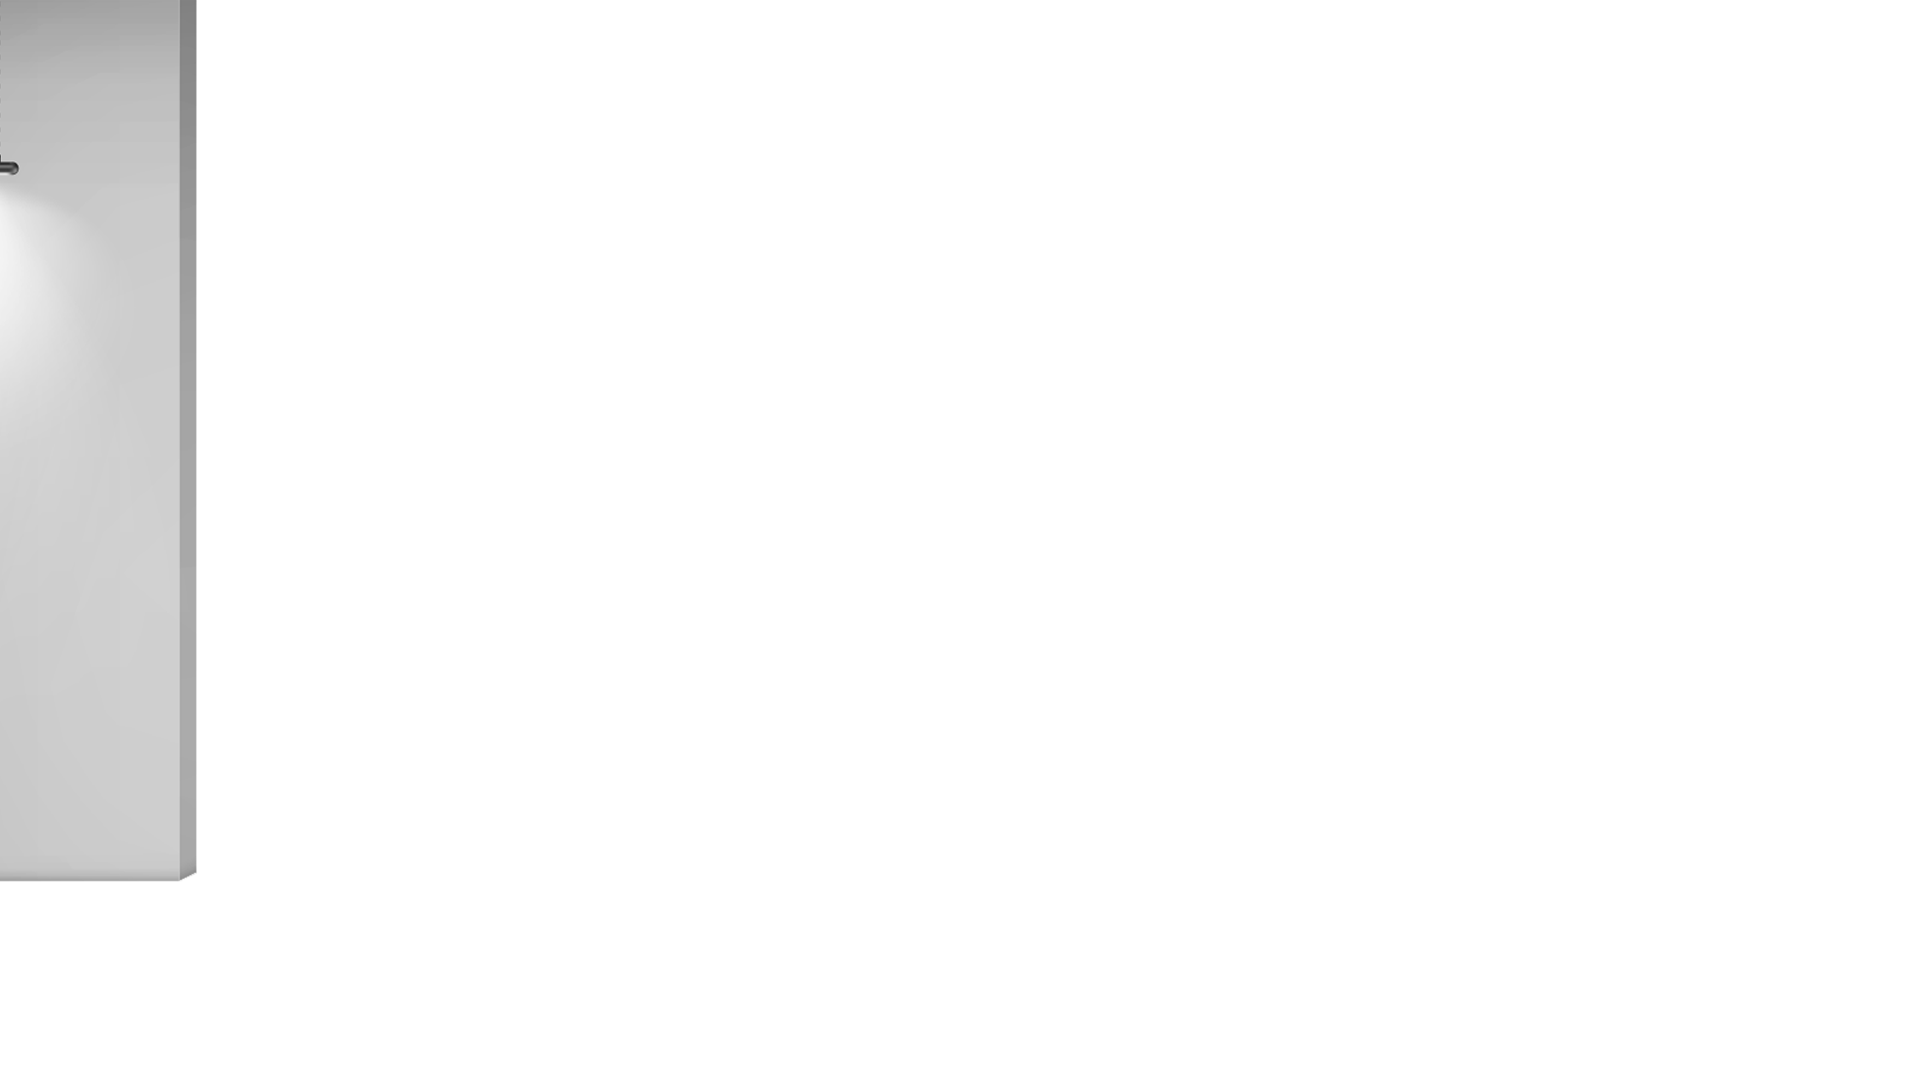
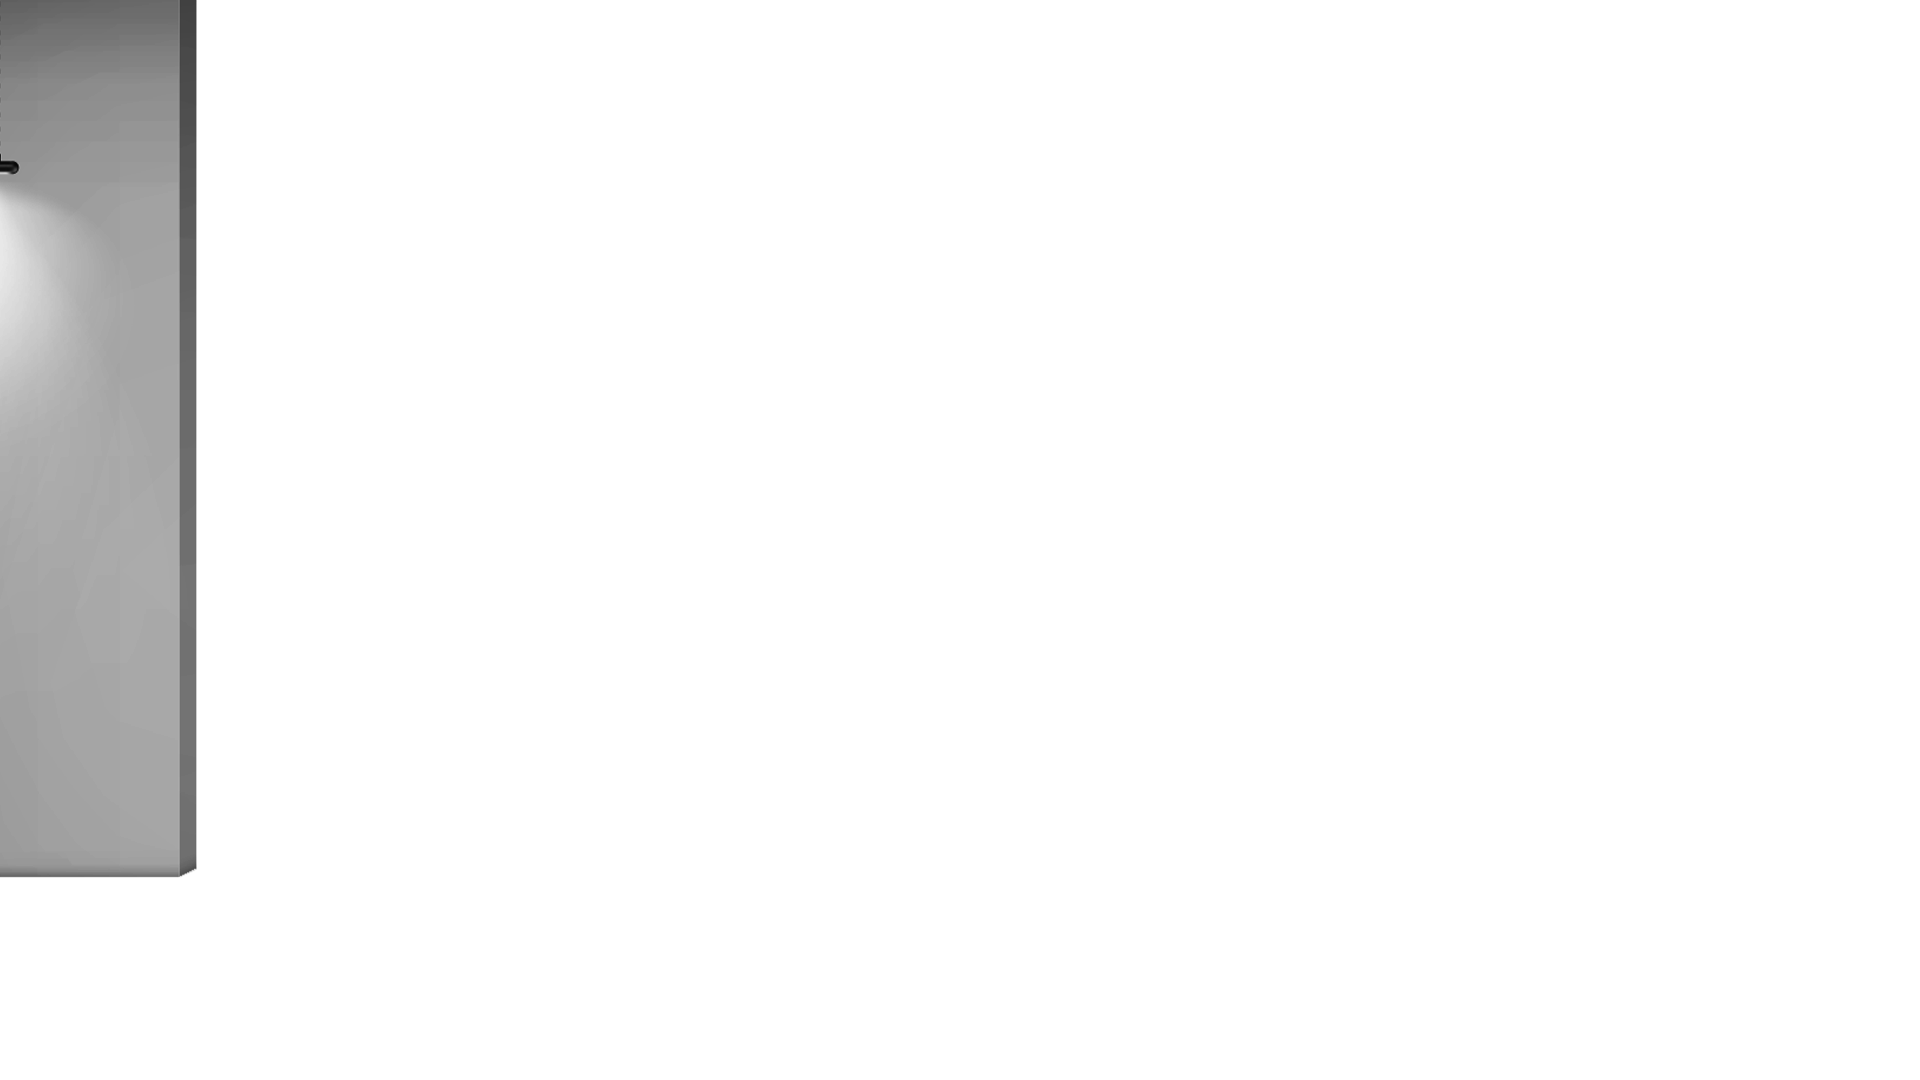
header desktop and mobile

Changed region(s): [[0.0, 0.0, 0.125, 0.825]]

diff --git a/sass/style.scss b/sass/style.scss
@@ -438,6 +438,7 @@ header {
 		
 		height: 100vh;
 		overflow: hidden;
+		
 		img{
 			position: absolute;
 			top: 0;
@@ -452,13 +453,16 @@ header {
 			z-index: 2;
 		}
 		.img2{
-			z-index: 6;
+			z-index: 7;
 		}
 		.img3{
 			z-index: 4;
 		}
 		.img4{
 			z-index: 5;
+		}
+		.img5{
+			z-index: 6;
 		}
 
 		
@@ -481,9 +485,14 @@ header {
 			text-shadow: 0 5px 10px rgba(0,0,0,0.3);
 			text-transform: uppercase;
 			
-			.right{
-				color:$main-color;
-			}
+	// 		.right{
+	// 			background-clip: text;
+	// -webkit-background-clip: text;
+	// color: transparent;
+	// background-image: url('../img/bg-header/background-g326dc8eee_1280.jpg');
+	// background-size: cover;
+	// background-position: center;
+	// 		}
 		}
 		p{
 		padding-top: 0.5em;
@@ -495,43 +504,45 @@ header {
 		bottom:100px;
 		opacity:1;
 	}
-	.title-desktop{
-		display: none;
-	}
-	.title{
-		font-size: 2em;
-		position: absolute;
-		top: 50%;
-		left: 50%;
-		transform: translate(-50%, -50%);
-font-weight: bold;
-		z-index: 10;
-		color:#fff;
-		text-shadow: 0 5px 10px rgba(0,0,0,0.4);
-		text-transform: uppercase;
-		text-align: center;
-		transform: translateY(60px);
-		.left{
-			position: absolute;
-			// transform: translateY(-170px);
-			margin-bottom: 100px;
-			transform: translateX(-620px);
-		
-		}
-		.right{
-			position: absolute;
-			transform: translateX(560px);
-			color:$main-color;
+// 	.title-desktop{
+// 		display: none;
+// 	}
+// 	.title{
+// 		font-size: 3.5rem;
+// 		position: absolute;
+// 		top: 50%;
+// 		left: 50%;
+// 		transform: translate(-50%, -50%);
+// font-weight: bold;
+// 		z-index: 4;
+// 		color:#fff;
+// 		text-shadow: 0 5px 10px rgba(0,0,0,0.4);
+// 		text-transform: uppercase;
+// 		text-align: center;
+// 		transform: translateY(200px);
+// 		.left{
+// 			position: absolute;
+// 			font-size: 4.3rem;
+// 			top: -30px;
+// 			transform: translateX(-1050px);
+// 		// z-index:5;
+// 		}
+// 		.right{
+// 			display: block;
+// 			top: 20px;
+// 			position: absolute;
+// 			transform: translateX(750px);
+// 			// color:$main-color;
 			
-		}
+// 		}
 		
-	}
+// 	}
 }
 header::before{
 	content: '';
 	background: linear-gradient(0deg,#ebeff6,rgba(235, 239, 246,0));
 	width: 100%;
-	height: 40%;
+	height: 30%;
 	position: absolute;
 	bottom: 0;
 	left: 0;
@@ -543,8 +554,9 @@ header::before{
 	background-color: $bg-color;
 	// background-image: linear-gradient(to bottom, #000 0%, #190433 100%);
 	overflow: hidden;
+	
 	// h2{
-	// 	color:white;
+	// 	padding-top: 3em;
 	// }
 	&__box {
 		display: grid;
@@ -1308,27 +1320,22 @@ footer {
 	}
 }
 @media (min-width: 768px) {
-	header{
-		.title{
-			z-index: 3;
-			transform: translateY(0);
-		}
-	}
+	
 	.button-30{
 		font-size: 1.6rem;
 	}
 	h2 {
 		font-size: 2.6rem;
 	}
-	header {
-		h1 {
-			font-size: 4.5rem;
-		}
-		p {
-			font-size: 2rem;
-			padding-top: 0.5em;
-		}
-	}
+	// header {
+	// 	h1 {
+	// 		font-size: 4.5rem;
+	// 	}
+	// 	p {
+	// 		font-size: 2rem;
+	// 		padding-top: 0.5em;
+	// 	}
+	// }
 	.about {
 		&__box {
 			padding: 5em 2em;
@@ -1394,30 +1401,15 @@ footer {
 @media (min-width: 992px) {
 	header{
 		.mobile-text{
-			display: none;
-		}
-		.title-desktop{
-			display: block;
-		}
-		.title{
-			font-size: 3em;
-		
-		
-			.left{
-				
-			
-				
-				transform: translateX(-710px);
-			
+			// display: none;
+			.title-mobile {
+				font-size: 5rem;
 			}
-			.right{
-				
-				transform: translateX(560px);
-				
-				
-			}
-			
-	}
+		}
+		// .title-desktop{
+		// 	display: block;
+		// }
+		
 }
 	.button-30{
 		font-size: 1.7rem;

diff --git a/css/style.css b/css/style.css
@@ -573,13 +573,16 @@ header .images .img1 {
   z-index: 2;
 }
 header .images .img2 {
-  z-index: 6;
+  z-index: 7;
 }
 header .images .img3 {
   z-index: 4;
 }
 header .images .img4 {
   z-index: 5;
+}
+header .images .img5 {
+  z-index: 6;
 }
 header .mobile-text {
   position: absolute;
@@ -599,9 +602,6 @@ header .mobile-text .title-mobile {
   text-shadow: 0 5px 10px rgba(0, 0, 0, 0.3);
   text-transform: uppercase;
 }
-header .mobile-text .title-mobile .right {
-  color: rgb(25, 177, 191);
-}
 header .mobile-text p {
   padding-top: 0.5em;
   white-space: nowrap;
@@ -611,39 +611,12 @@ header .mobile-text-animation {
   bottom: 100px;
   opacity: 1;
 }
-header .title-desktop {
-  display: none;
-}
-header .title {
-  font-size: 2em;
-  position: absolute;
-  top: 50%;
-  left: 50%;
-  transform: translate(-50%, -50%);
-  font-weight: bold;
-  z-index: 10;
-  color: #fff;
-  text-shadow: 0 5px 10px rgba(0, 0, 0, 0.4);
-  text-transform: uppercase;
-  text-align: center;
-  transform: translateY(60px);
-}
-header .title .left {
-  position: absolute;
-  margin-bottom: 100px;
-  transform: translateX(-620px);
-}
-header .title .right {
-  position: absolute;
-  transform: translateX(560px);
-  color: rgb(25, 177, 191);
-}
 
 header::before {
   content: "";
   background: linear-gradient(0deg, #ebeff6, rgba(235, 239, 246, 0));
   width: 100%;
-  height: 40%;
+  height: 30%;
   position: absolute;
   bottom: 0;
   left: 0;
@@ -1362,22 +1335,11 @@ footer .copyright {
   }
 }
 @media (min-width: 768px) {
-  header .title {
-    z-index: 3;
-    transform: translateY(0);
-  }
   .button-30 {
     font-size: 1.6rem;
   }
   h2 {
     font-size: 2.6rem;
-  }
-  header h1 {
-    font-size: 4.5rem;
-  }
-  header p {
-    font-size: 2rem;
-    padding-top: 0.5em;
   }
   .about__box {
     padding: 5em 2em;
@@ -1433,20 +1395,8 @@ footer .copyright {
   }
 }
 @media (min-width: 992px) {
-  header .mobile-text {
-    display: none;
-  }
-  header .title-desktop {
-    display: block;
-  }
-  header .title {
-    font-size: 3em;
-  }
-  header .title .left {
-    transform: translateX(-710px);
-  }
-  header .title .right {
-    transform: translateX(560px);
+  header .mobile-text .title-mobile {
+    font-size: 5rem;
   }
   .button-30 {
     font-size: 1.7rem;

diff --git a/js/parallax.js b/js/parallax.js
@@ -13,19 +13,36 @@ function showTitle(){
 window.addEventListener('scroll', ()=>{
 
     showTitle();
-    if(window.scrollY<=215){
-        leftTitle.style.left = (window.scrollY *2.2) + "px"; 
+    if(window.scrollY<=800){
+        leftTitle.style.left = (window.scrollY *1.5) + "px"; 
         console.log(window.scrollY)
-        rightTitle.style.left = '-' + (window.scrollY *2.5) + "px"; 
+        rightTitle.style.left = '-' + (window.scrollY *1.3) + "px"; 
     }
     
-
-if(window.scrollY){
-    images[1].style.zIndex = 1;
+if(window.innerWidth >= 992){
+    if(window.scrollY){
+        images[1].style.zIndex = 2;
+    }
+    else{
+        images[1].style.zIndex = 7; 
+    }
+    if(window.scrollY>=50){
+        images[1].style.zIndex = 1;
+    }
+    else{
+        images[1].style.zIndex = 7; 
+    }
 }
 else{
-    images[1].style.zIndex = 6; 
+    if(window.scrollY){
+        images[1].style.zIndex = 1;
+    }
+    else{
+        images[1].style.zIndex = 7; 
+    } 
 }
+
+
 
 
 //    images[2].style.top = '-' + (window.scrollY / 2.5) + "px"; 

diff --git a/index.html b/index.html
@@ -91,9 +91,10 @@
         </div> -->
         <div class="images">
             <img src="./img/bg-header/bg1.png" alt="" class="img1">
-            <img src="./img/bg-header/bg4.png" alt="" class="img2">
+            <img src="./img/bg-header/bg4_v2.png" alt="" class="img2">
             <img src="./img/bg-header/bg2.png" alt="" class="img3">
-            <img src="./img/bg-header/bg3.png" alt="" class="img4">
+            <img src="./img/bg-header/bg5.png" alt="" class="img4">
+            <img src="./img/bg-header/bg3.png" alt="" class="img5">
             
             <h1 class="title title-desktop"><span class="left">Kreator </span><span class="right">Ścian</span></h1>
             <div class="mobile-text">
